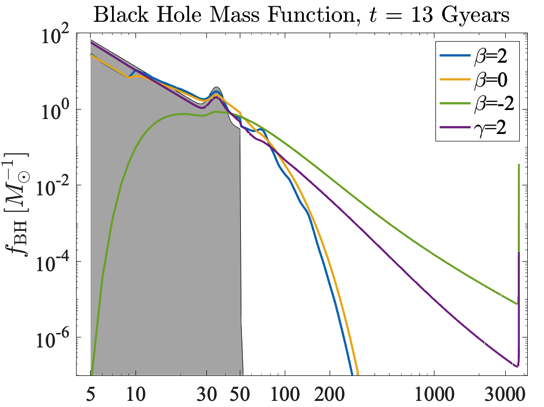
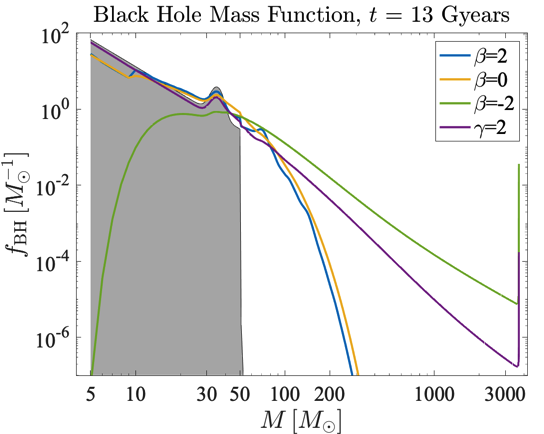
included images

diff --git a/README.md b/README.md
@@ -4,7 +4,7 @@ This is a Matlab code that solves the modified coagulation (Smoluchowski) equati
 <img src="https://github.com/jordanflitter/BH-coagulation/blob/main/images/N_vs_time.png" alt="N_vs_time" width="537" height="438">
 <img src="https://github.com/jordanflitter/BH-coagulation/blob/main/images/M_vs_time.png" alt="M_vs_time" width="537" height="438">
 <img src="https://github.com/jordanflitter/BH-coagulation/blob/main/images/P_vs_time.png" alt="P_vs_time" width="537" height="438">
-<img src="https://github.com/jordanflitter/BH-coagulation/blob/main/images/BHMF.png" alt="BHMF" width="544" height="407">
+<img src="https://github.com/jordanflitter/BH-coagulation/blob/main/images/BHMF.png" alt="BHMF" width="544" height="434">
 
 ## Using the code
 To run the code run `Main.m`. Read the documentation in that file to understand the meaning of the different parameters and adjust their values.
